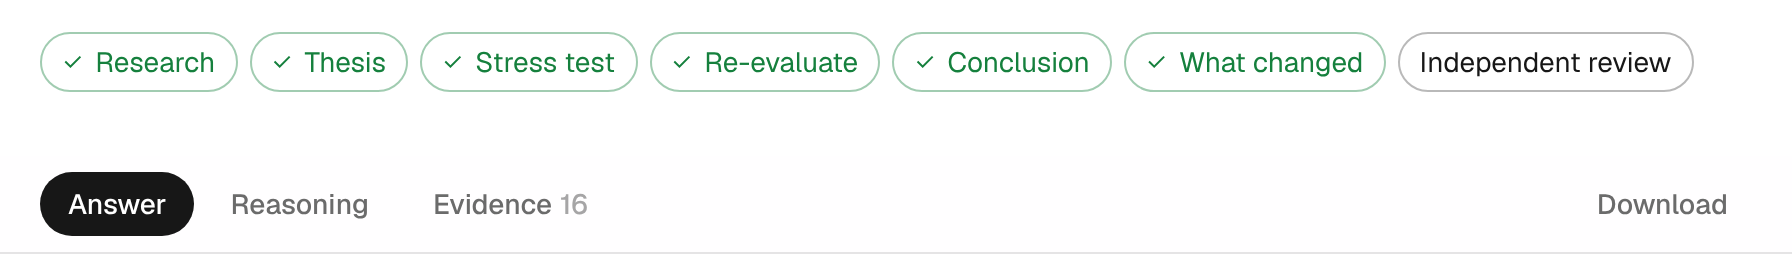
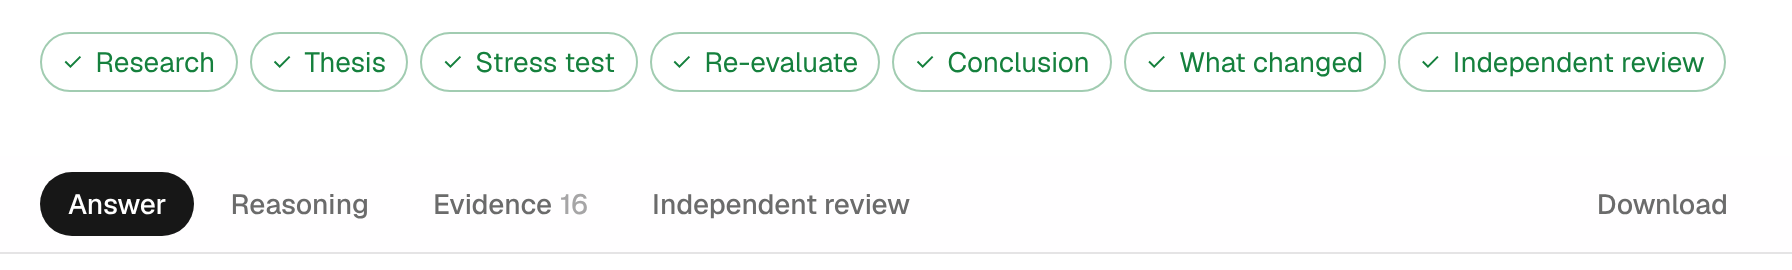
feat(s2): Independent review gets its own tab; critiques labelled by reviewer
- The review section moves from the end of the Answer view to a tab after Evidence; the step
  after What changed opens it. Tabs fit on phones from 375px, and Download stays visible.
- Reppo returns one critique per evaluator, so unnamed critiques read Reviewer 1, 2, 3
  (older saves that say Criterion n are shown the same way).

diff --git a/src/components/workstation.tsx b/src/components/workstation.tsx
@@ -77,10 +77,7 @@ function Bullets({ items }: { items: string[] }) {
   );
 }
 
-/**
- * Independent review is the step after What changed. Its panel sits at the end of the Answer
- * view, so clicking the step switches to Answer before scrolling to it.
- */
+/** Independent review is the step after What changed; clicking it opens the review tab. */
 const SHOW_REVIEW = "crux:show-review";
 function showReview(event: MouseEvent<HTMLAnchorElement>) {
   event.preventDefault();
@@ -130,7 +127,7 @@ export function Progress({ project, active, reviewable = false }: { project: Res
 // ---------------------------------------------------------------------------------------
 // Views and the "Evidence" link that ties them together
 
-type View = "answer" | "reasoning" | "evidence";
+type View = "answer" | "reasoning" | "evidence" | "review";
 type Focus = { label: string; claimIds: string[] } | null;
 type Nav = {
   project: ResearchProject;
@@ -163,10 +160,11 @@ function EvidenceLink({ label, ids = [], text = "" }: { label: string; ids?: str
   );
 }
 
-const VIEWS: { key: View; label: string }[] = [
+const VIEWS: { key: View; label: string; short?: string }[] = [
   { key: "answer", label: "Answer" },
   { key: "reasoning", label: "Reasoning" },
   { key: "evidence", label: "Evidence" },
+  { key: "review", label: "Independent review", short: "Review" },
 ];
 
 /** `downloadable` is off while a run is still streaming, so nobody saves half a report. */
@@ -180,11 +178,13 @@ export function Workstation({ project, downloadable = true, reviewAvailable = tr
     if (next !== "evidence") setFocus(null);
     top.current?.scrollIntoView({ behavior: "smooth", block: "start" });
   };
+  // The review tab only exists where a review can be requested or one is already saved.
+  const reviewShown = project.mode === "live" && project.status === "complete" && (reviewAvailable || Boolean(project.reppo));
   useEffect(() => {
     const open = () => {
-      setView("answer");
+      setView("review");
       setFocus(null);
-      requestAnimationFrame(() => document.getElementById("independent-review")?.scrollIntoView({ behavior: "smooth", block: "start" }));
+      top.current?.scrollIntoView({ behavior: "smooth", block: "start" });
     };
     window.addEventListener(SHOW_REVIEW, open);
     return () => window.removeEventListener(SHOW_REVIEW, open);
@@ -209,19 +209,26 @@ export function Workstation({ project, downloadable = true, reviewAvailable = tr
         <div ref={top} className="scroll-mt-4">
           <PrintHeader project={project} />
           <div className="sticky top-0 z-10 -mx-5 mb-6 flex items-center gap-2 border-b border-line bg-background/90 px-5 py-2 backdrop-blur print:hidden">
-            <nav className="flex gap-1" aria-label="Report views">
-              {VIEWS.map((v) => (
+            <nav className="flex min-w-0 gap-0.5 overflow-x-auto [scrollbar-width:none] sm:gap-1" aria-label="Report views">
+              {VIEWS.filter((v) => v.key !== "review" || reviewShown).map((v) => (
                 <button
                   key={v.key}
                   type="button"
                   aria-current={view === v.key ? "page" : undefined}
                   onClick={() => go(v.key)}
-                  className={`rounded-full px-3 py-1.5 text-sm font-medium transition max-[359px]:px-2.5 sm:px-3.5 ${
+                  className={`shrink-0 whitespace-nowrap rounded-full px-2 py-1.5 text-[13px] font-medium transition sm:px-3.5 sm:text-sm ${
                     view === v.key ? "bg-foreground text-background" : "text-muted hover:text-foreground"
                   }`}
                 >
-                  {v.label}
-                  {v.key === "evidence" && project.research ? <span className="ml-1 opacity-60 max-[359px]:hidden">{project.research.claims.length}</span> : null}
+                  {v.short ? (
+                    <>
+                      <span className="max-sm:hidden">{v.label}</span>
+                      <span className="sm:hidden">{v.short}</span>
+                    </>
+                  ) : (
+                    v.label
+                  )}
+                  {v.key === "evidence" && project.research ? <span className="ml-1 opacity-60 max-[400px]:hidden">{project.research.claims.length}</span> : null}
                 </button>
               ))}
             </nav>
@@ -230,7 +237,6 @@ export function Workstation({ project, downloadable = true, reviewAvailable = tr
 
           <div className={panel("answer")}>
             <AnswerView project={project} />
-            <ReppoReviewPanel project={project} available={reviewAvailable} />
           </div>
           <div className={`${panel("reasoning")} print:mt-12`}>
             <ReasoningView project={project} />
@@ -238,6 +244,11 @@ export function Workstation({ project, downloadable = true, reviewAvailable = tr
           <div className={`${panel("evidence")} print:mt-12`}>
             <EvidenceView project={project} focus={focus} clearFocus={() => setFocus(null)} />
           </div>
+          {reviewShown && (
+            <div className={view === "review" ? "block" : "hidden"}>
+              <ReppoReviewPanel project={project} available={reviewAvailable} />
+            </div>
+          )}
 
         </div>
       </NavCtx.Provider>
@@ -276,7 +287,7 @@ function Downloads({ project }: { project: ResearchProject }) {
   }
 
   return (
-    <div className="ml-auto flex items-center gap-1">
+    <div className="ml-auto flex shrink-0 items-center gap-1">
       {failed && <span className="text-xs text-bad">PDF failed, try again</span>}
       <button
         type="button"

diff --git a/src/components/reppo-review.tsx b/src/components/reppo-review.tsx
@@ -5,6 +5,9 @@ import { useState } from "react";
 import type { ResearchProject } from "@/lib/types";
 import type { ReppoReview } from "@/lib/reppo/types";
 
+/** Reppo returns one critique per evaluator, not per criterion; older saves called them "Criterion n". */
+export const reviewerLabel = (dimension: string) => dimension.replace(/^Criterion (\d+)$/, "Reviewer $1");
+
 /** Reppo review is optional: users must opt in to submitting their research. */
 export function ReppoReviewPanel({ project, available }: { project: ResearchProject; available: boolean }) {
   const router = useRouter();
@@ -61,7 +64,7 @@ export function ReppoReviewPanel({ project, available }: { project: ResearchProj
     finally { setBusy(false); }
   }
   return (
-    <section id="independent-review" className="mt-6 scroll-mt-24 rounded-xl border border-line p-4 sm:p-5" aria-label="Independent research review">
+    <section id="independent-review" className="scroll-mt-24 rounded-xl border border-line p-4 sm:p-5" aria-label="Independent research review">
       <h2 className="text-lg font-semibold">Independent review</h2>
       <p className="mt-2 text-sm text-muted">Powered by Reppo. An independent evaluation of the research and its reasoning, not proof that every fact is correct.</p>
       {!available ? (
@@ -80,7 +83,7 @@ export function ReppoReviewPanel({ project, available }: { project: ResearchProj
           <p><strong>Status:</strong> {review.status === "pending" ? "Awaiting review (minimum 10-minute settlement)" : "Settled"}</p>
           {review.decision && <p><strong>Decision:</strong> {review.decision}{review.score !== undefined ? " · score " + review.score + "/100" : ""}{review.confidence ? " · " + review.confidence + " confidence" : ""}</p>}
           {review.route && <p><strong>Suggested action:</strong> {review.route}</p>}
-          {review.critiques.map((c, i) => <div key={i} className="border-t border-line pt-2"><strong>{c.dimension}</strong><p className="mt-1 text-muted">{c.critique}</p></div>)}
+          {review.critiques.map((c, i) => <div key={i} className="border-t border-line pt-2"><strong>{reviewerLabel(c.dimension)}</strong><p className="mt-1 text-muted">{c.critique}</p></div>)}
           {review.status === "settled" && review.critiques.length > 0 && (
             <div className="border-t border-line pt-3">
               {improved ? (

diff --git a/src/lib/reppo/client.ts b/src/lib/reppo/client.ts
@@ -88,7 +88,7 @@ export function normalizeReppoResponse(body: Record<string, unknown>, previous: 
   const lists = ["verdicts", "critiques", "assessments", "peerAssessments", "results", "criteria", "dimensions", "evaluations", "feedback"];
   const items = first(...lists.map((k) => (Array.isArray(data[k]) ? data[k] : Array.isArray(verdict[k]) ? verdict[k] : undefined) as unknown[] | undefined)) ?? [];
   const critiques = items.map(obj).map((v, index) => ({
-    dimension: text(v, ["dimension", "criterion", "name", "title", "label"]) ?? "Criterion " + (index + 1),
+    dimension: text(v, ["dimension", "criterion", "name", "title", "label"]) ?? "Reviewer " + (index + 1),
     critique: text(v, ["critique", "rationale", "feedback", "comment", "reasoning", "explanation", "summary", "text"]) ?? "No written critique returned.",
     ...(num(v.score) !== undefined ? { score: num(v.score) } : {}),
   })).filter((c) => c.critique !== "No written critique returned." || c.score !== undefined);

diff --git a/tests/reppo.test.ts b/tests/reppo.test.ts
@@ -101,3 +101,14 @@ describe("reading a settled verdict", () => {
     expect(normalizeReppoResponse({ status: "PENDING" }, pending).status).toBe("pending");
   });
 });
+
+describe("reviewer labels", () => {
+  it("names unnamed critiques by reviewer, and relabels older saves", async () => {
+    const pending: ReppoReview = { eval_id: "e", submitted_at: "2026-11-03T00:00:00Z", status: "pending", critiques: [] };
+    const r = normalizeReppoResponse({ verdict: { decision: "revise" }, verdicts: [{ critique: "Thin evidence." }, { rationale: "Overconfident." }] }, pending);
+    expect(r.critiques.map((c) => c.dimension)).toEqual(["Reviewer 1", "Reviewer 2"]);
+    const { reviewerLabel } = await import("../src/components/reppo-review");
+    expect(reviewerLabel("Criterion 3")).toBe("Reviewer 3");
+    expect(reviewerLabel("Evidence")).toBe("Evidence");
+  });
+});

diff --git a/src/lib/revise.ts b/src/lib/revise.ts
@@ -85,7 +85,9 @@ export async function reviseWithFeedback(
   const research = original.research!;
   const conclusion = original.conclusion!;
   const review = original.reppo!;
-  const critiques: Critique[] = review.critiques.slice(0, MAX_CRITIQUES).map((c) => ({ dimension: c.dimension, critique: c.critique }));
+  const critiques: Critique[] = review.critiques
+    .slice(0, MAX_CRITIQUES)
+    .map((c) => ({ dimension: c.dimension.replace(/^Criterion (\d+)$/, "Reviewer $1"), critique: c.critique }));
   const warnings: string[] = [];
   const { question } = original;
 

diff --git a/README.md b/README.md
@@ -33,9 +33,9 @@ Before, the report ended at What changed:
 
 ![The first Crux: the six steps ending at What changed](docs/screenshots/s2-report-before.png)
 
-Now, Independent review comes right after it:
+Now, Independent review comes right after it, and has its own tab next to Evidence:
 
-![Crux with Reppo: the six steps, then Independent review](docs/screenshots/s2-report-after.png)
+![Crux with Reppo: the six steps, then Independent review, and an Independent review tab after Evidence](docs/screenshots/s2-report-after.png)
 
 | | Before | Now |
 | --- | --- | --- |
@@ -75,7 +75,7 @@ Crux's stress test is SERV checking SERV. Independent review gets a second opini
 
 How it works on a report:
 
-1. Click **Independent review** after What changed, enter the owner key, tick consent and choose **Request Reppo review**.
+1. Click **Independent review**, the step after What changed or the tab after Evidence, enter the owner key, tick consent and choose **Request Reppo review**.
 2. Crux sends Reppo a compact trace of the report: the question, the thesis and its assumptions, the challenges, the re-evaluation, the conclusion, a balanced sample of facts with their quotes, and the source list.
 3. After at least 10 minutes, **Check for verdict** fetches the result: accept, revise or reject, with a score, a confidence and a critique for each criterion. It's saved with the report, and the step turns green.
 
